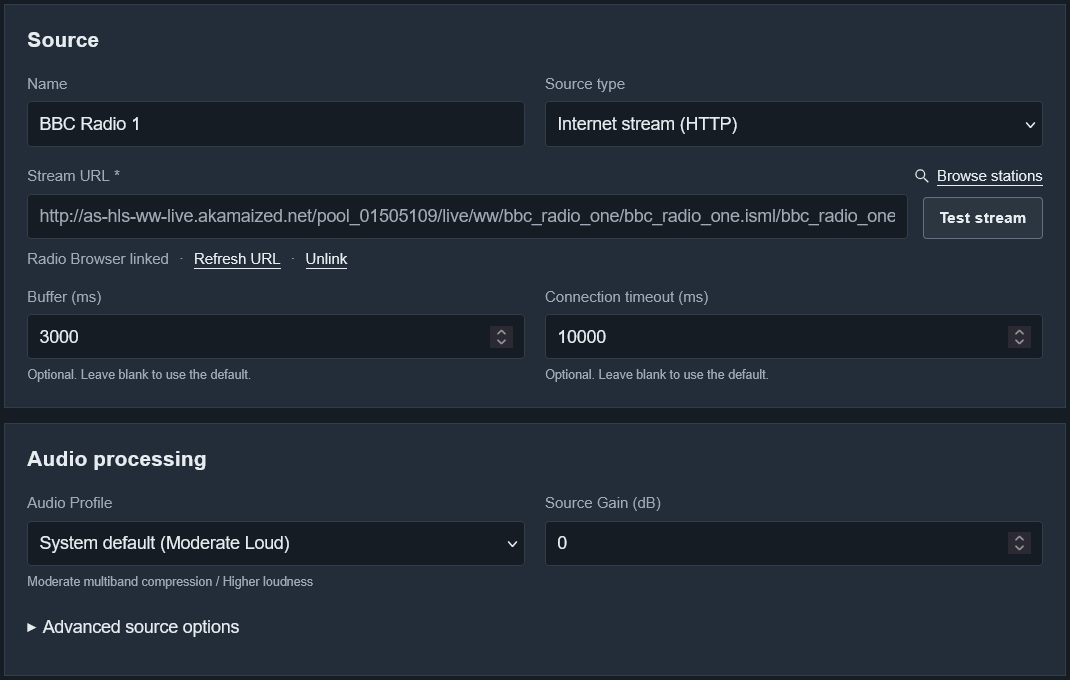
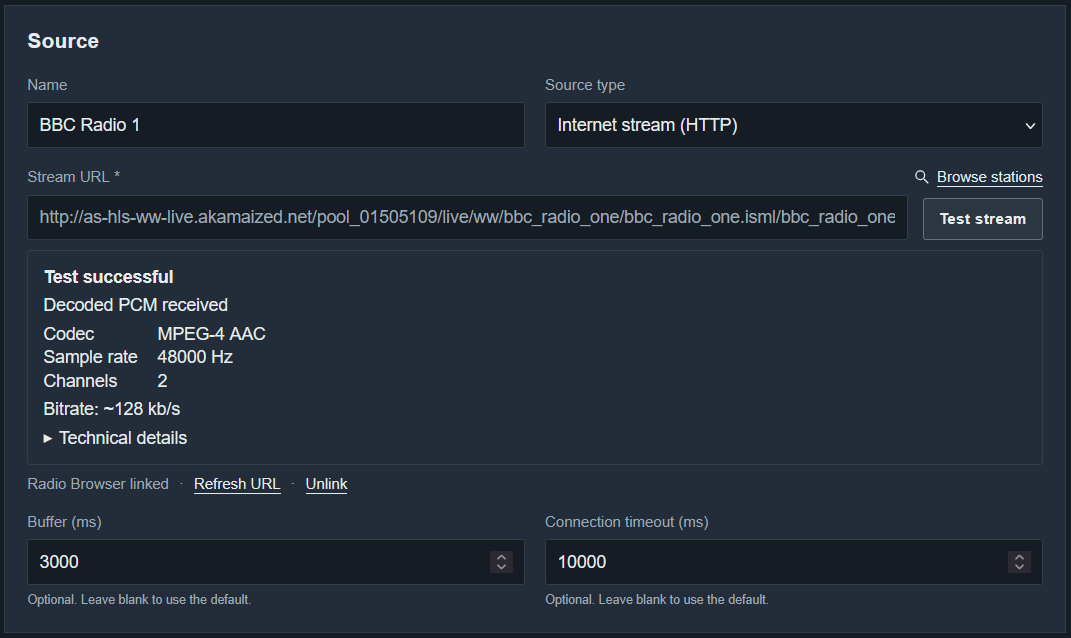
docs: refine RDS quick start instructions and update screenshots

diff --git a/docs/getting-started.md b/docs/getting-started.md
@@ -73,14 +73,24 @@ For either type, leave **Audio Profile** on **System default** and **Source Gain
 
 If you don't need RDS, click **Save**. Otherwise, continue to the next section before saving.
 
-## 5. Configure RDS for your station
+## 5. RDS
 
-1. In the Source Editor, check **Configure RDS for this source**.
-2. Enter your station's four-digit hexadecimal identifier in **PI (hex)**. For this cabled test, you can use `1234`. Choose the **Programme type** (PTY) that fits your programme.
-3. In **PS 1**, enter the station name the radio should display, up to eight characters. Try `HOME FM`.
-4. Check **Radio Text (RT) enabled**. In **Default Radio Text**, enter a short message, such as `Welcome to Home FM`. Leave **Use source metadata for RadioText** unchecked so you can recognize your message on the receiver. Click **Save**.
+Enable **Configure RDS for this source** in the Source Editor. Here's a brief overview of the settings. For more details, see the [RDS guide](rds.md).
 
-<a href="../assets/source-edit.png"><img src="../assets/source-edit.png" width="560" alt="Source Editor with audio processing above the RDS station identification, PS and Radio Text fields"></a>
+- **PI (hex):** A four-digit hexadecimal programme identifier. Use a unique PI for each station and avoid conflicts with other stations.
+- **ECC (hex, optional):** Extended Country Code. Leave blank if you're unsure.
+- **Programme type (PTY):** Select the category that best describes your programme.
+- **Traffic programme (TP):** Usually unnecessary for home use, but some receivers may skip stations without this flag when traffic mode is active.
+- **Programme Service (PS):** The station name displayed on the receiver, up to 8 characters. You can add multiple entries to create a rotating display (Dynamic PS).
+- **Radio Text (RT):** Enable **Radio Text (RT) enabled** and enter a message in **Default Radio Text** (up to 64 characters). **Use source metadata for RadioText** can automatically display the current track or programme title when available.
+- **RT termination:**
+  - **CR:** Terminates shorter messages early for faster display, but may cause compatibility issues with older receivers.
+  - **PAD:** Pads messages to the full 64 characters for better compatibility.
+- **Alternative frequencies (AF):** Lists other frequencies carrying the same programme. Leave unset unless needed.
+
+Click **Save** when you're done.
+
+<a href="../assets/rds-edit.png"><img src="../assets/rds-edit.png" width="600" alt="Source Editor RDS settings for station identification, programme type, Programme Service and Radio Text"></a>
 
 ## 6. Configure your first transmitter
 
